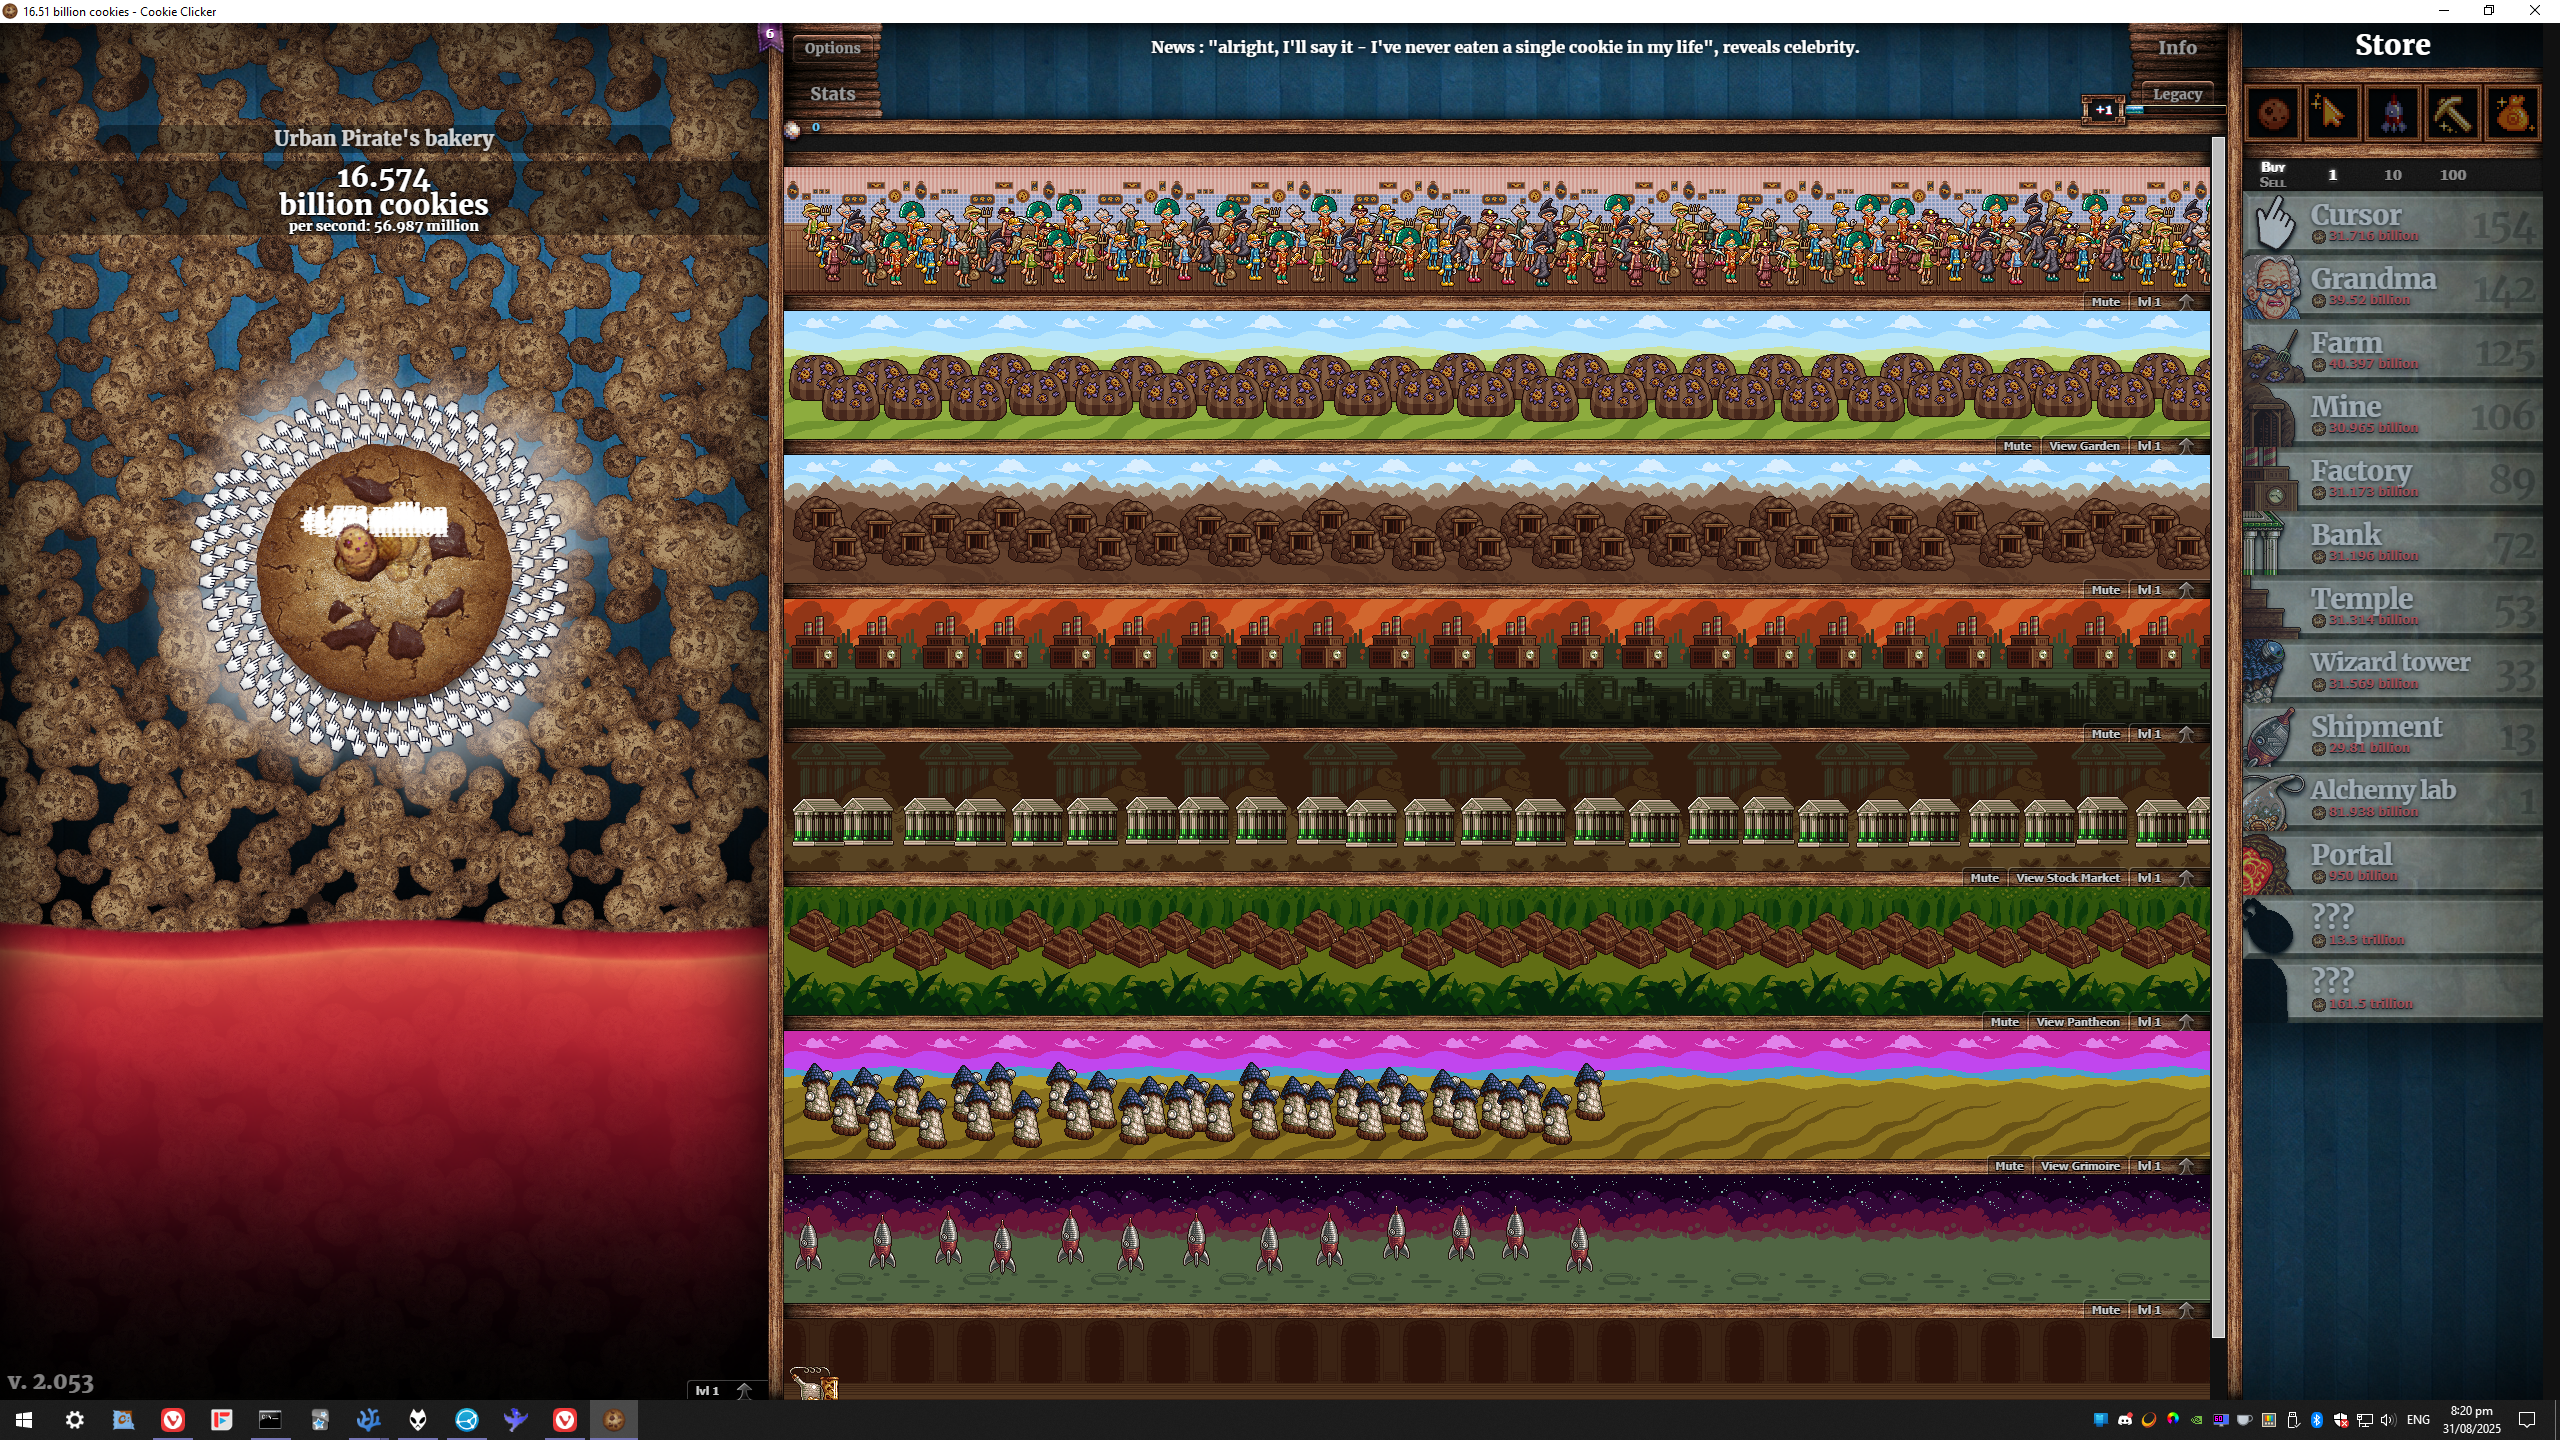
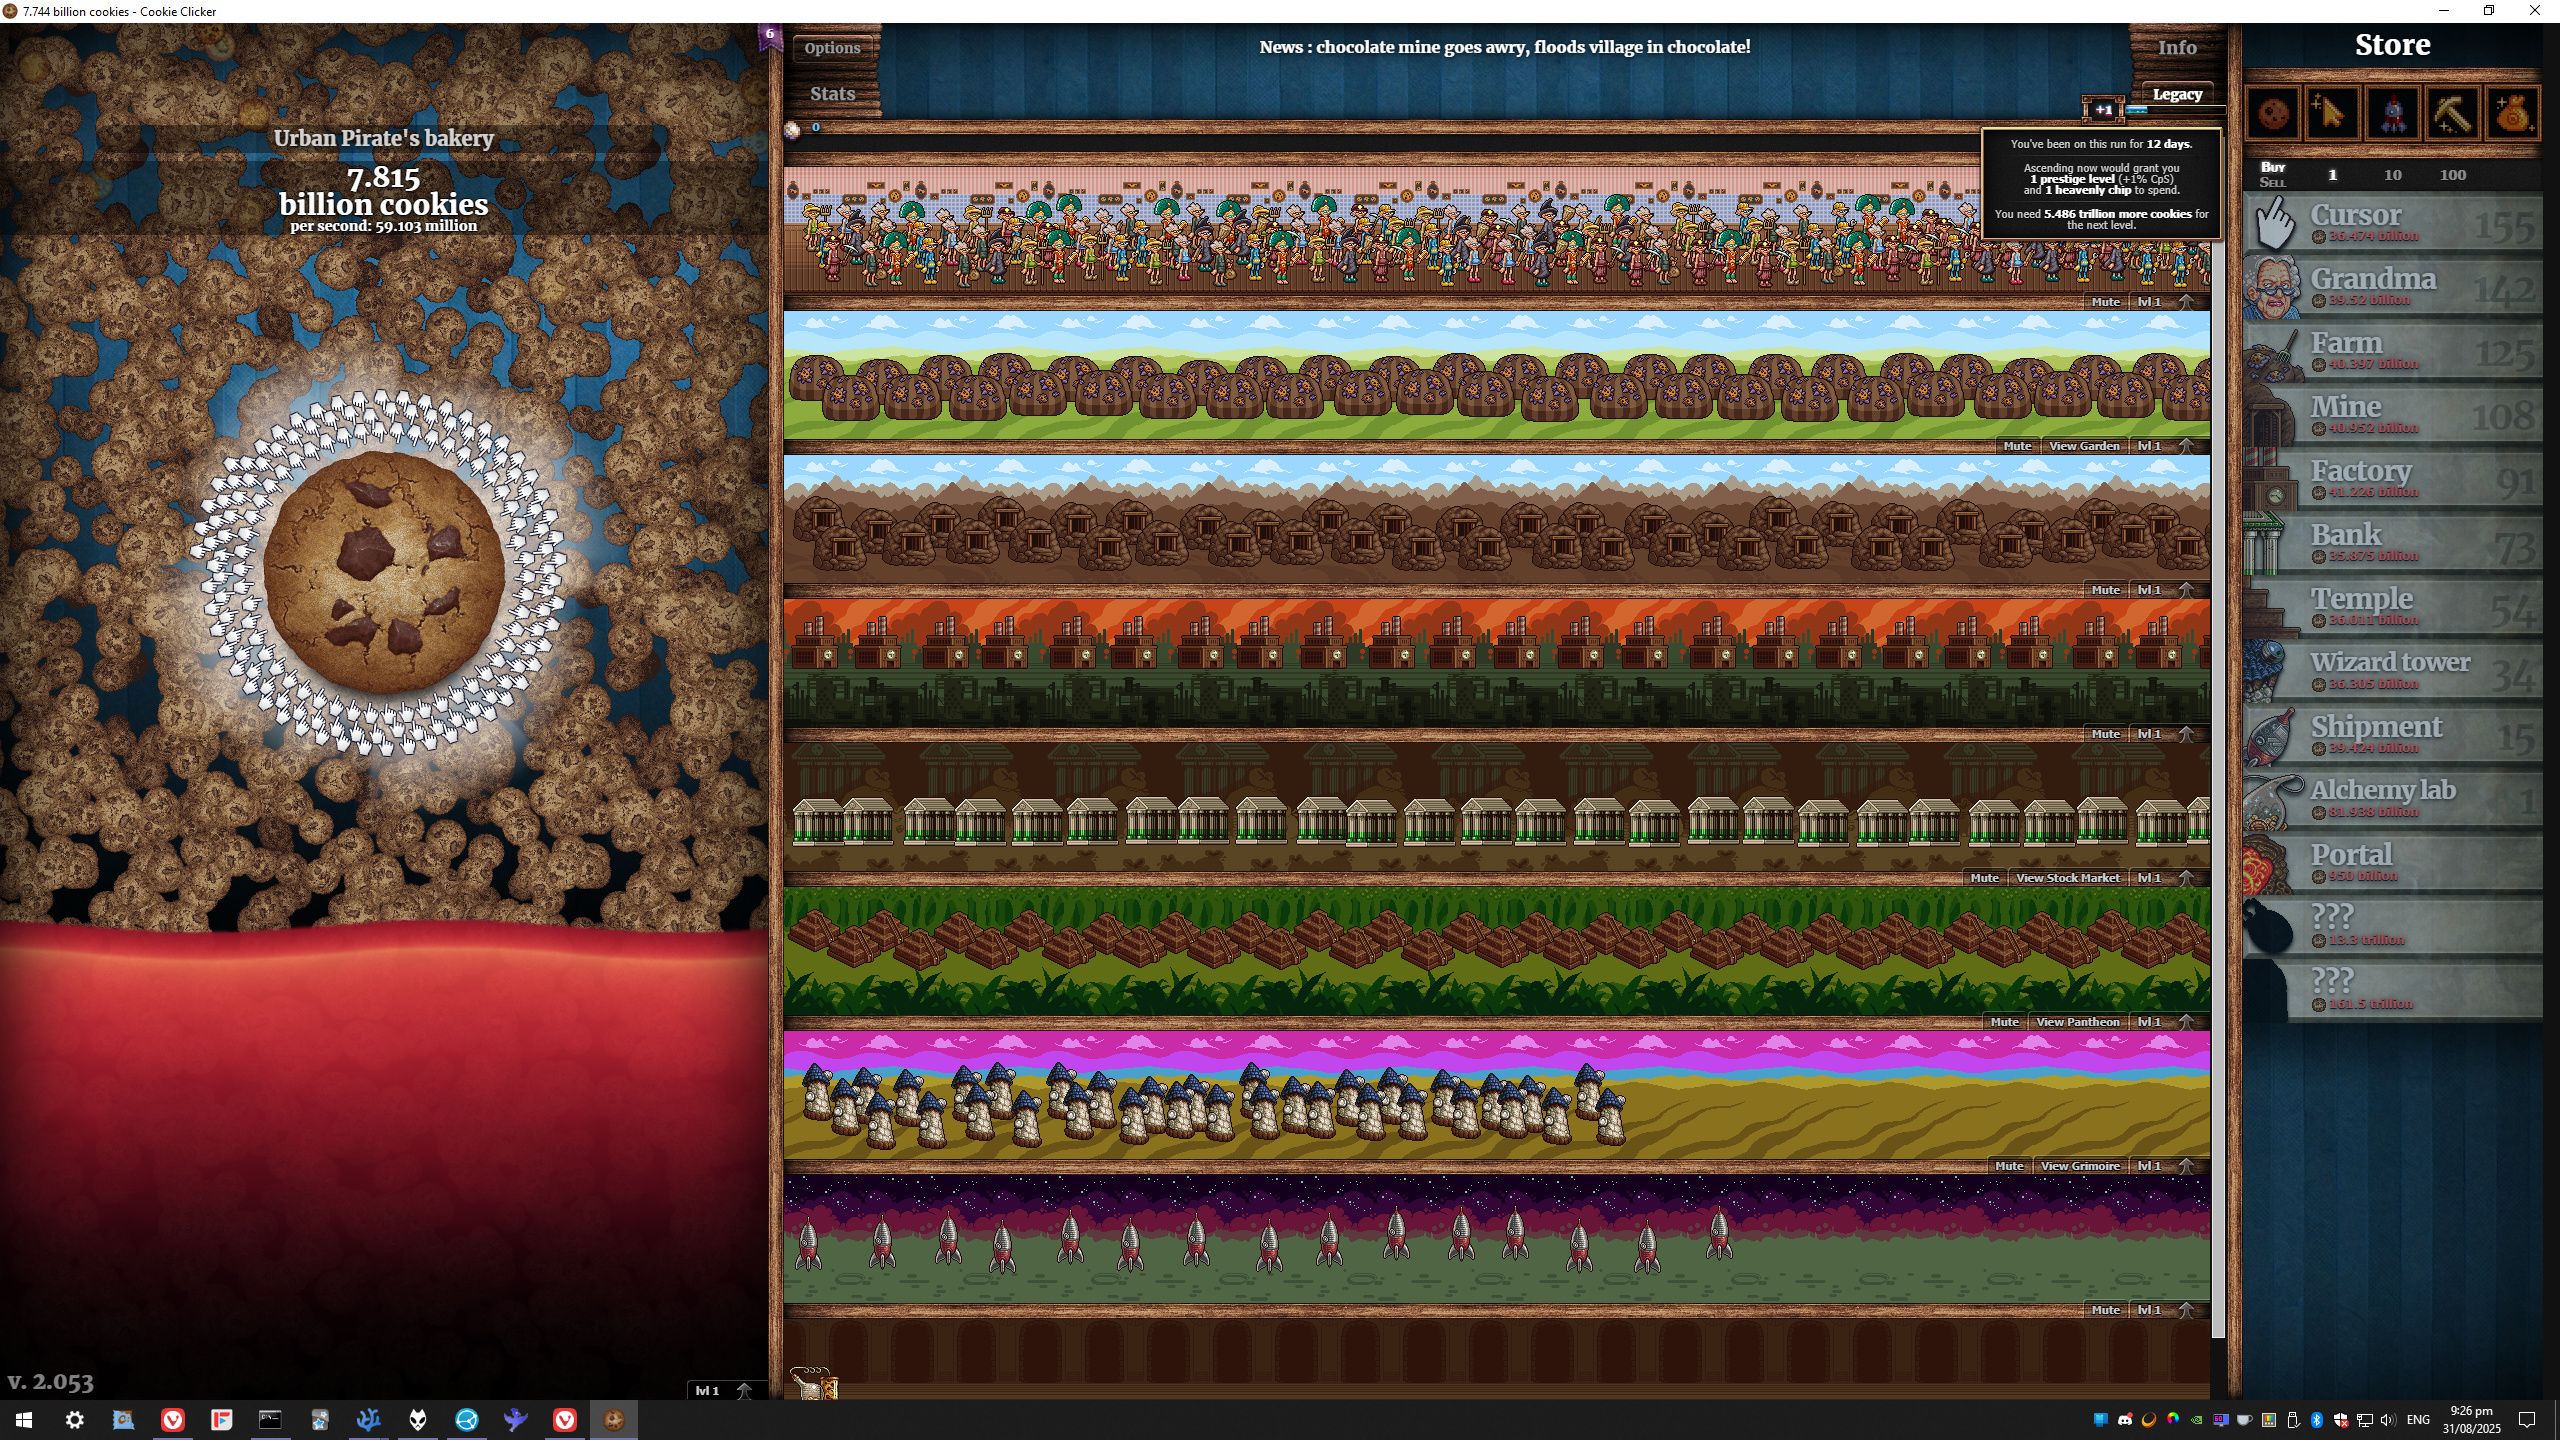
powerups automated as well

diff --git a/cookie clicker.py b/cookie clicker.py
@@ -6,6 +6,8 @@ from PIL import Image, ImageOps
 import time
 import winsound
 import numpy as np
+import re
+from decimal import Decimal
 
 def crop_image(input_image, output_image, COORDS):
     """
@@ -22,6 +24,23 @@ def crop_image(input_image, output_image, COORDS):
     img = Image.open(input_image)
     cropped_img = img.crop(COORDS)
     cropped_img.save(output_image, 'PNG')
+
+def text_to_int(text: str) -> int:
+    """
+    Convert strings like "50 billion" or "40.965 trillion" into integers.
+    """
+    # Extract number and scale word
+    match = re.match(r"([\d,.]+)\s*(\w+)", text.lower().strip())
+    if not match:
+        raise ValueError(f"Invalid input: {text}")
+    
+    number_str, scale_word = match.groups()
+    number = Decimal(number_str.replace(",", ""))  # handles decimals safely
+    
+    if scale_word not in SCALE_MAP:
+        raise ValueError(f"Unknown scale: {scale_word}, raw text: {text}")
+    
+    return int(number * SCALE_MAP[scale_word])
 
 def click_cookie():
     mouse_controller.position = COOKIE_COORDS
@@ -88,7 +107,7 @@ def get_availible_upgrade_prices():
     image_green.save('OCR/upgrade_prices_green_channel.png')
 
     # Apply simple thresholding
-    threshold = 150
+    threshold = 170
     img_thresholded = image_green.convert('L')  # Convert to grayscale
     img_thresholded = img_thresholded.point(lambda x: 0 if x < threshold else 255)
 
@@ -104,20 +123,76 @@ def get_availible_upgrade_prices():
         if item == '':
             availible.remove(item)
 
-    availible = [''.join(filter(lambda x: x.isdigit() or x == '.', item)) for item in availible]
-
-    try:
-        upgrade_prices = [float(item) for item in availible]
-    except:
-        print("error: ", availible)
-        upgrade_prices = []
+    upgrade_prices = [text_to_int(item.replace(',', '.')) for item in availible]
 
     return upgrade_prices
 
 def click_upgrade(upgrade):
     mouse_controller.position = UPGRADE_COORDS[upgrade]
     mouse_controller.click(pynput.mouse.Button.left, 1)
-    winsound.Beep(2500, 100)
+    winsound.Beep(500, 100)
+    mouse_controller.position = NEUTRAL_COORDS
+
+def get_powerup_price(): 
+    # Take a screenshot
+    screenshot = pyautogui.screenshot()
+
+    # Save the screenshot to a file
+    screenshot.save('screenshot.png')
+
+    # Crop the screenshot to a specific area
+    crop_image('screenshot.png', 'cropped_screenshot.png', CROP_FOR_POWERUPS)
+
+    # Open the image
+    img = Image.open('cropped_screenshot.png')
+
+    r, g, b = img.split()
+
+    # Convert the images to numpy arrays
+    r_array = np.array(r)
+    g_array = np.array(g)
+    b_array = np.array(b)
+
+    # Take only the green channel and subtract the average of the red and blue channels
+    image_green = g_array - 0.6*b_array
+
+    # Convert the result back to a PIL Image
+    image_green = Image.fromarray(image_green.astype(np.uint8))
+
+    image_green.save('green_channel.png')
+
+    # Apply simple thresholding
+    threshold = 150
+    img_thresholded = image_green.convert('L')  # Convert to grayscale
+    img_thresholded = img_thresholded.point(lambda x: 0 if x < threshold else 255)
+
+    # Save the thresholded image
+    img_thresholded.save('thresholded_image.png')
+
+    # Use Tesseract OCR to extract text from the screenshot
+    text = pytesseract.image_to_string(Image.open('thresholded_image.png'))
+
+    return text_to_int(text) if text else 0
+
+def check_powerups():
+
+    mouse_controller.position = POWERUP_COORDS[0]
+
+    time.sleep(0.1)
+
+    price = get_powerup_price()
+
+    mouse_controller.position = NEUTRAL_COORDS
+
+    time.sleep(0.1)
+
+    return price
+
+def click_powerup():
+    print(f"Upgrading powerup")
+    mouse_controller.position = POWERUP_COORDS[0]
+    mouse_controller.click(pynput.mouse.Button.left, 1)
+    winsound.Beep(500, 100)
     mouse_controller.position = NEUTRAL_COORDS
 
 if __name__ == "__main__":
@@ -125,7 +200,8 @@ if __name__ == "__main__":
     COOKIE_COORDS = (374, 565)
     NEUTRAL_COORDS = (411, 1119)
     CROP_FOR_UPGRADES = (2310, 190, 2547, 1388)
-    CROP_FOR_UPGRADE_PRICES = (2329, 190, 2375, 1388) 
+    CROP_FOR_UPGRADE_PRICES = (2329, 190, 2450, 1388) 
+    CROP_FOR_POWERUPS = (2125, 60, 2225, 80)
     UPGRADES = [
         'Cursor',
         'Grandma',
@@ -141,8 +217,17 @@ if __name__ == "__main__":
         'Time machine',
         'Antimatter condenser'
     ]
+    # Scale multipliers
+    SCALE_MAP = {
+        "thousand": 10**3,
+        "million": 10**6,
+        "billion": 10**9,
+        "trillion": 10**12,
+        "quadrillion": 10**15,
+    }
 
     UPGRADE_COORDS = {UPGRADES[i]: (2350, 222 + 64*i) for i in range(len(UPGRADES))}
+    POWERUP_COORDS = [(2273+60*i,100) for i in range(4)]
 
     UPGRADE_PERIOD = 10
 
@@ -163,12 +248,22 @@ if __name__ == "__main__":
             upgrade_prices = get_availible_upgrade_prices()
             availible_upgrades = get_availible_upgrades()
 
-            if len(availible_upgrades) == 0 or len(upgrade_prices) == 0:
+            powerup_price = check_powerups()
+
+            if (len(availible_upgrades) == 0 or len(upgrade_prices) == 0) and powerup_price == 0:
                 print("No upgrades availible")
                 continue
 
             print(f"Availible upgrades: {availible_upgrades}") 
             print(f"Upgrade prices: {upgrade_prices}")
+            if powerup_price != 0:
+                print(f"Powerup price: {powerup_price}")
+
+            cheapest_upgrade = min(upgrade_prices)
+
+            if powerup_price < cheapest_upgrade and powerup_price != 0:
+                click_powerup()
+                continue 
 
             cheapest_upgrade_index = upgrade_prices.index(min(upgrade_prices))
 

diff --git a/OCR.py b/OCR.py
@@ -1,12 +1,46 @@
 import pyautogui
 import pytesseract
+import pynput
 from PIL import Image, ImageOps
 import time
 import winsound
 import numpy as np
+import re
+from decimal import Decimal
+
+# Scale multipliers
+SCALE_MAP = {
+    "thousand": 10**3,
+    "million": 10**6,
+    "billion": 10**9,
+    "trillion": 10**12,
+    "quadrillion": 10**15,
+}
 
 CROP_FOR_COOKIES = (225, 160, 544, 223)
 CROP_FOR_UPGRADES = (2329, 190, 2375, 1388)
+CROP_FOR_POWERUPS = (2125, 60, 2225, 80)
+
+powerup_coords = [(2273+60*i,100) for i in range(4)]
+
+mouse_controller = pynput.mouse.Controller()
+
+def text_to_int(text: str) -> int:
+    """
+    Convert strings like "50 billion" or "40.965 trillion" into integers.
+    """
+    # Extract number and scale word
+    match = re.match(r"([\d,.]+)\s*(\w+)", text.lower().strip())
+    if not match:
+        raise ValueError(f"Invalid input: {text}")
+    
+    number_str, scale_word = match.groups()
+    number = Decimal(number_str.replace(",", ""))  # handles decimals safely
+    
+    if scale_word not in SCALE_MAP:
+        raise ValueError(f"Unknown scale: {scale_word}")
+    
+    return int(number * SCALE_MAP[scale_word])
 
 def crop_image(input_image, output_image, COORDS):
     """
@@ -25,22 +59,22 @@ def crop_image(input_image, output_image, COORDS):
     cropped_img.save(output_image, 'PNG')
 
 def capture_screen_text(): 
-    # Wait for 5 seconds
-    time.sleep(2)
 
-    # Take a screenshot
-    screenshot = pyautogui.screenshot()
+    # # Take a screenshot
+    # screenshot = pyautogui.screenshot()
 
-    # Save the screenshot to a file
-    screenshot.save('screenshot.png')
+    # # Save the screenshot to a file
+    # screenshot.save('screenshot.png')
 
-    # Crop the screenshot to a specific area
-    # crop_image('screenshot.png', 'cropped_screenshot.png', CROP_FOR_UPGRADES)
+    # # Crop the screenshot to a specific area
+    # crop_image('screenshot.png', 'cropped_screenshot.png', CROP_FOR_POWERUPS)
 
     # Open the image
     img = Image.open('cropped_screenshot.png')
 
-    r, g, b = img.split()
+    print(img.mode)
+
+    r, g, b, a = img.split()
 
     # Convert the images to numpy arrays
     r_array = np.array(r)
@@ -66,21 +100,8 @@ def capture_screen_text():
     # Use Tesseract OCR to extract text from the screenshot
     text = pytesseract.image_to_string(Image.open('thresholded_image.png'))
 
-    availible = text.split('\n')
-
-    for item in availible:
-        if item == '':
-            availible.remove(item)
-
-    availible = [''.join(filter(lambda x: x.isdigit() or x == '.', item)) for item in availible]
-
-    try:
-        upgrade_prices = [int(item) for item in availible]
-    except:
-        print("error: ", availible)
-
-    return upgrade_prices
+    return text_to_int(text) if text else 0
 
 print(capture_screen_text())
 
-winsound.Beep(2500, 100)
+winsound.Beep(500, 100)

diff --git a/click place checker.py b/click place checker.py
@@ -14,6 +14,6 @@ listener.start()
 
 if __name__ == "__main__":
     while True:
-        if clicked == 2:
+        if clicked == 3:
             listener.stop()
             break
